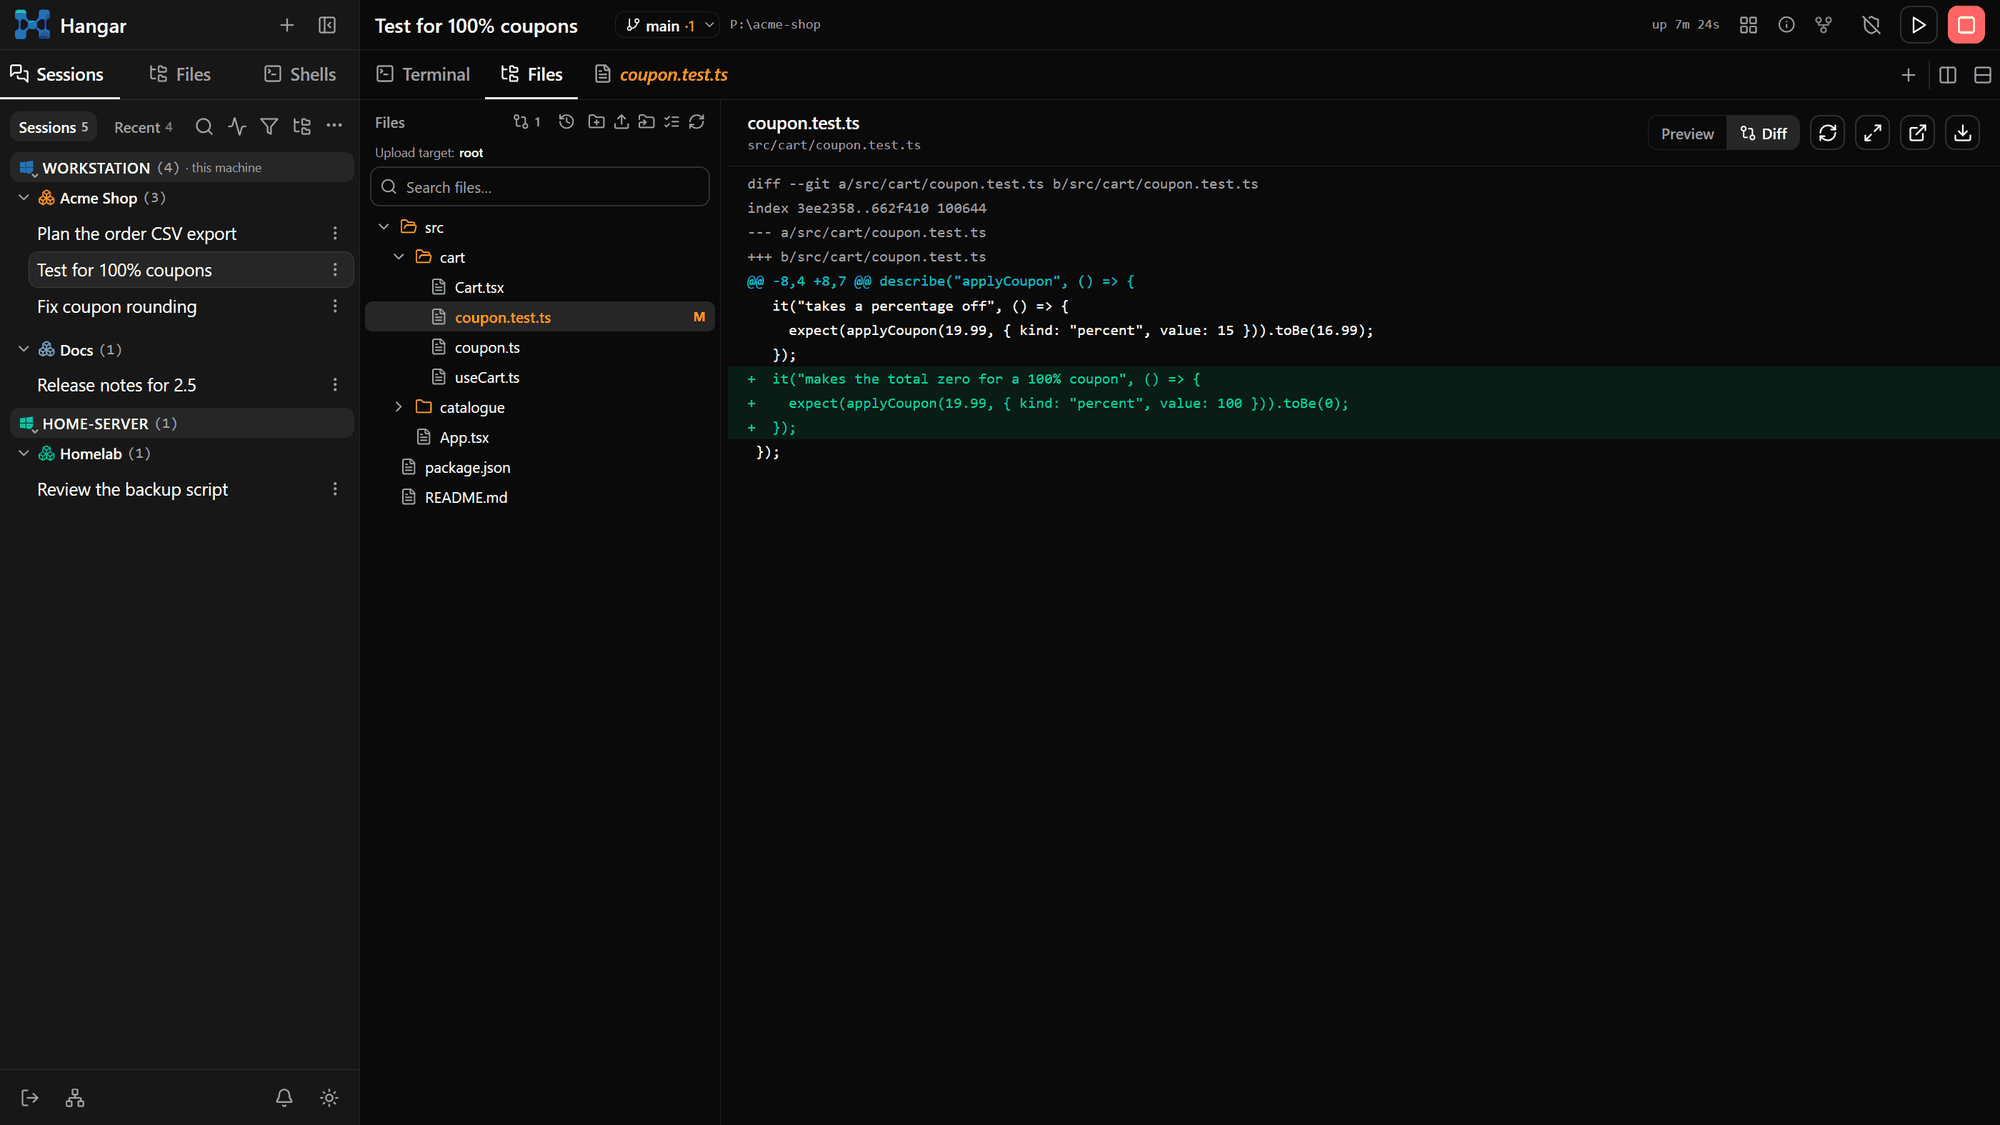
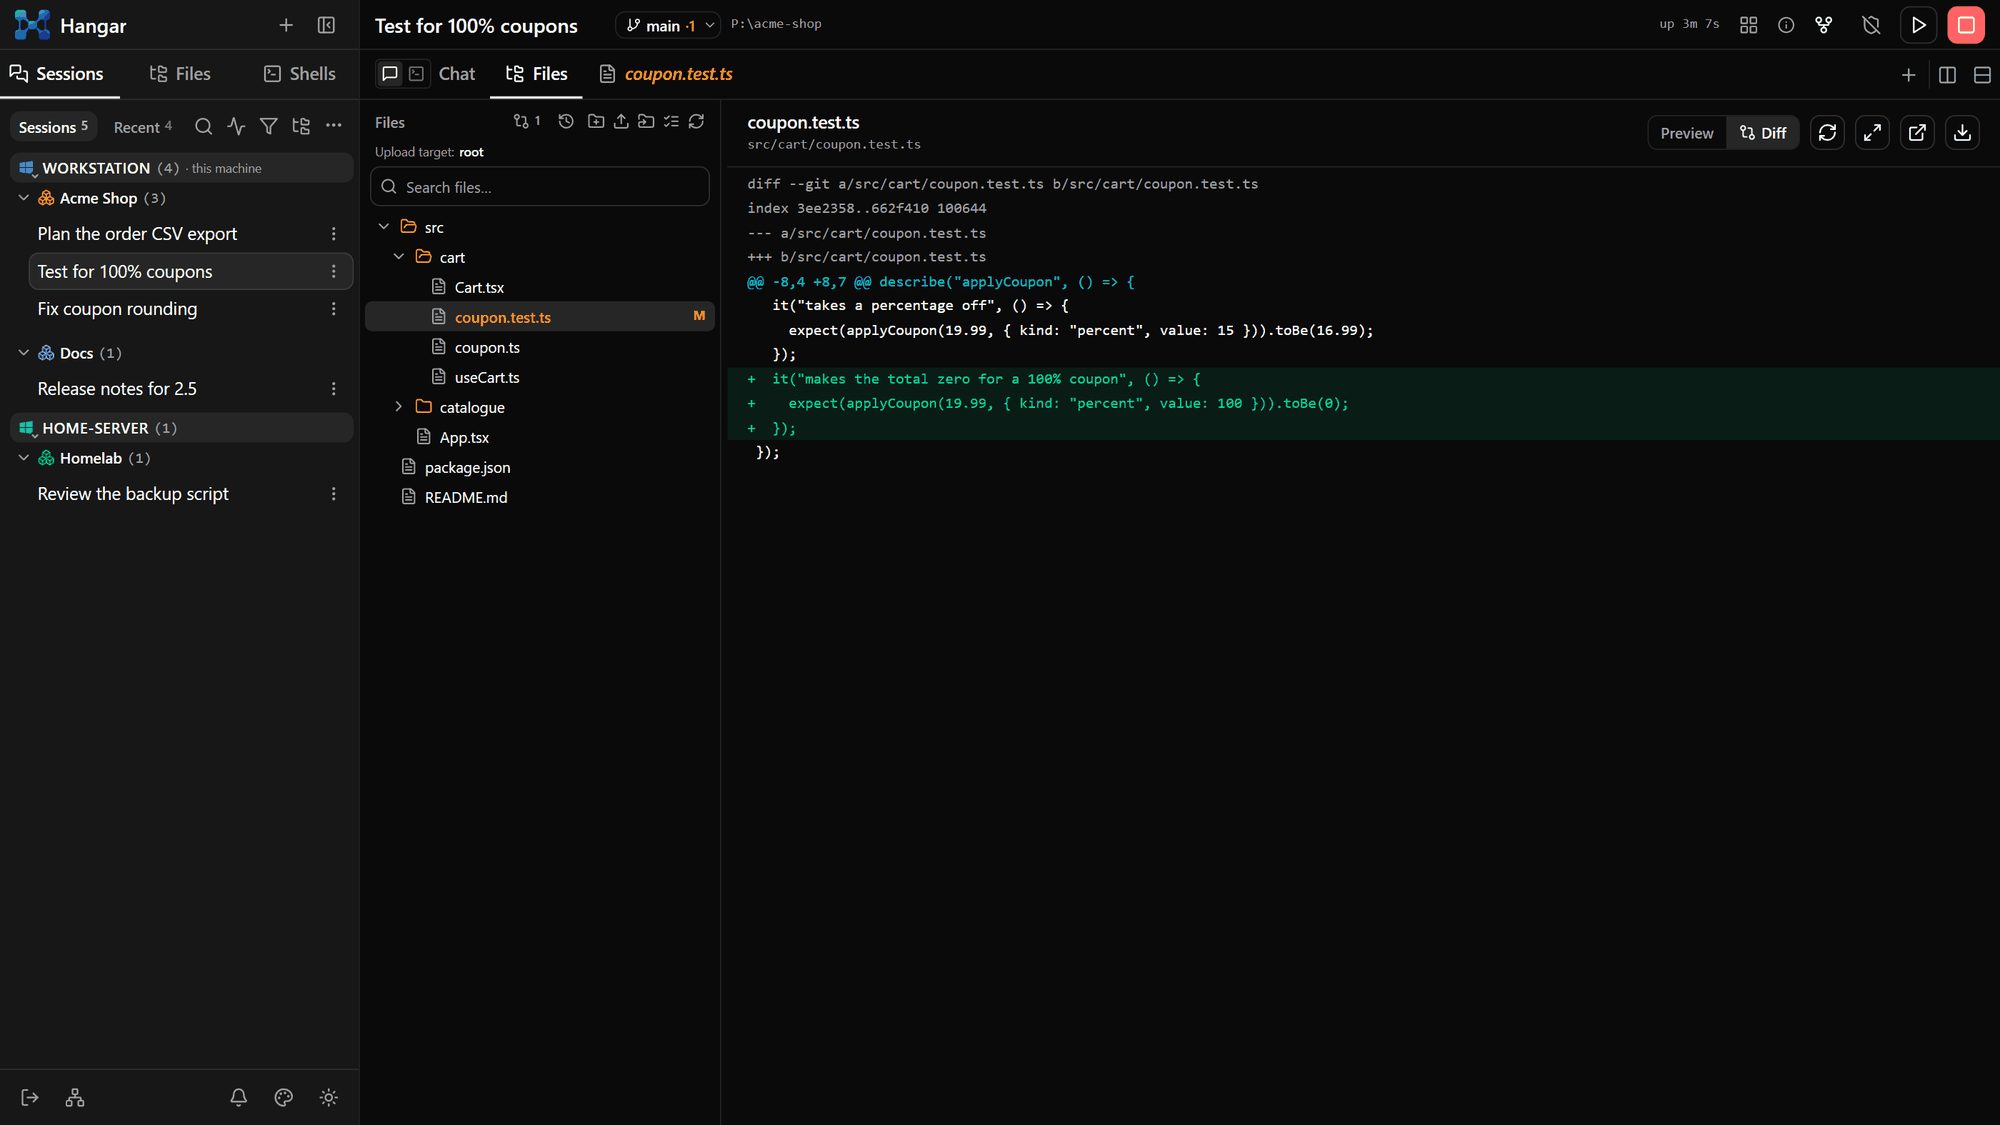
docs(readme): show the chat view in the screenshots and features

diff --git a/README.md b/README.md
@@ -13,7 +13,7 @@ them.
 
 <picture>
   <source media="(prefers-color-scheme: dark)" srcset="docs/images/hangar-dark.png">
-  <img src="docs/images/hangar-light.png" alt="Hangar in the browser: a sidebar with two machines, workstation and home-server, their projects and sessions, and one session open with its Claude Code terminal">
+  <img src="docs/images/hangar-light.png" alt="Hangar in the browser: a sidebar with two machines, workstation and home-server, their projects and sessions, and one session open as a chat: the prompt as a bubble, Claude's file reads as cards, and its reply with a diff and a table">
 </picture>
 
 ### What you get
@@ -21,6 +21,11 @@ them.
 - **Sessions in the browser.** Start, stop, fork and reopen `claude` sessions, each with its full
   terminal. Sessions keep running when Hangar restarts or updates, and closed ones resume where they
   left off.
+- **A chat view of every session.** The same conversation as a chat: your messages as bubbles,
+  Claude's replies as rendered Markdown, each tool call as a card that opens to its input and output.
+  Answer permission prompts, Claude's questions and its plans with buttons, attach images and files,
+  pick slash commands from suggestions, and reply to a selected piece of a reply. The terminal stays
+  the session, so switching between the two loses nothing, and the chat is what you want on a phone.
 - **Know what every session is doing.** Working, compacting, finished, failed on an API error, or
   waiting on you, with the command it wants permission to run. The ones that need you raise a
   notification in the page and a push notification on your phone.
@@ -55,7 +60,7 @@ in to Hangar has a shell on that machine as you (see [Security model](#security-
 <p align="center">
   <img src="docs/images/phone-sessions.png" alt="Hangar on a phone: the session list, grouped by machine and project" width="260">
   &nbsp;&nbsp;
-  <img src="docs/images/phone-terminal.png" alt="Hangar on a phone: a session's terminal" width="260">
+  <img src="docs/images/phone-chat.png" alt="Hangar on a phone: a session's chat, with a drafted Markdown section shown rendered" width="260">
 </p>
 
 **Runs on** Windows, Linux and macOS. **Needs** the Claude Code CLI (v2.1.51 or later), logged in with a
@@ -140,7 +145,8 @@ The full list, and how to undo each: [What Hangar changes outside its own folder
 
 - [Installing Hangar](docs/install.md): prerequisites, Windows, Linux and macOS, the first password, a
   Windows service, uninstalling, and everything Hangar writes outside its folders.
-- [Features](docs/features.md): what the web UI and the tray app do, and how sessions survive restarts.
+- [Features](docs/features.md): what the web UI (terminal, chat, files) and the tray app do, and how
+  sessions survive restarts.
 - [Configuration](docs/configuration.md): where your settings go, and every key.
 - [Updating](docs/updating.md): redeploys, one-click in-app updates, and updating another machine.
 - [API](docs/api.md): starting sessions from scripts, and the API a session uses on itself.

diff --git a/docs/features.md b/docs/features.md
@@ -34,7 +34,13 @@ Hangar is two programs:
 
   See [tray/README.md](../tray/README.md).
 
-The web UI is a **session manager with a full terminal**:
+<picture>
+  <source media="(prefers-color-scheme: dark)" srcset="images/terminal-dark.png">
+  <img src="images/terminal-light.png" alt="A session's terminal: the same conversation the README shows as a chat, in Claude Code's own interface">
+</picture>
+
+The web UI is a **session manager with a full terminal**, and a chat view of it (the README's
+screenshot is this session as a chat):
 
 - **Create / select sessions** — each session is a live `claude --remote-control` process in a
   working folder of your choice.
